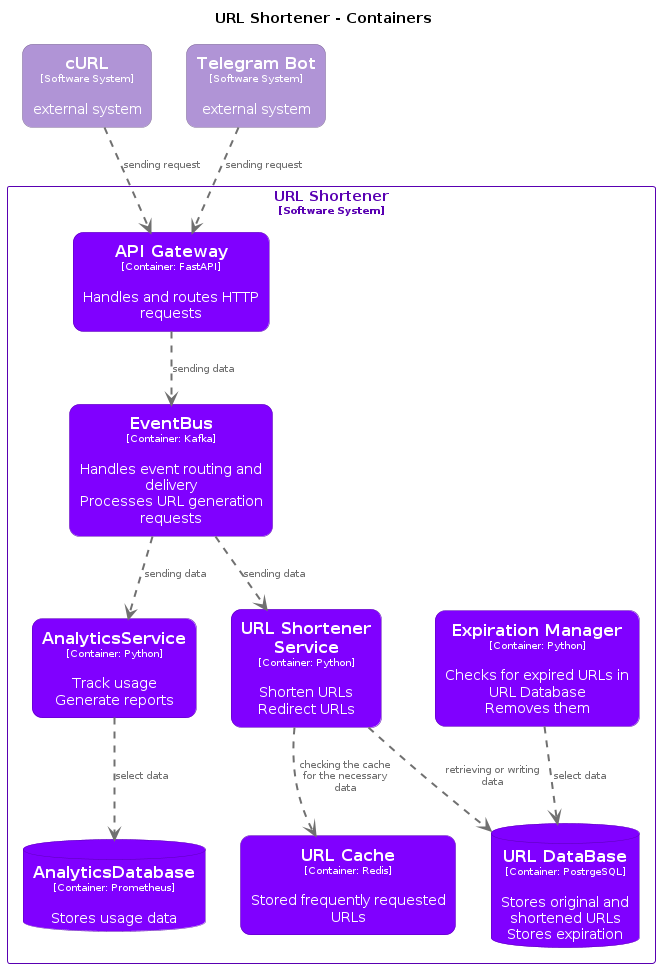
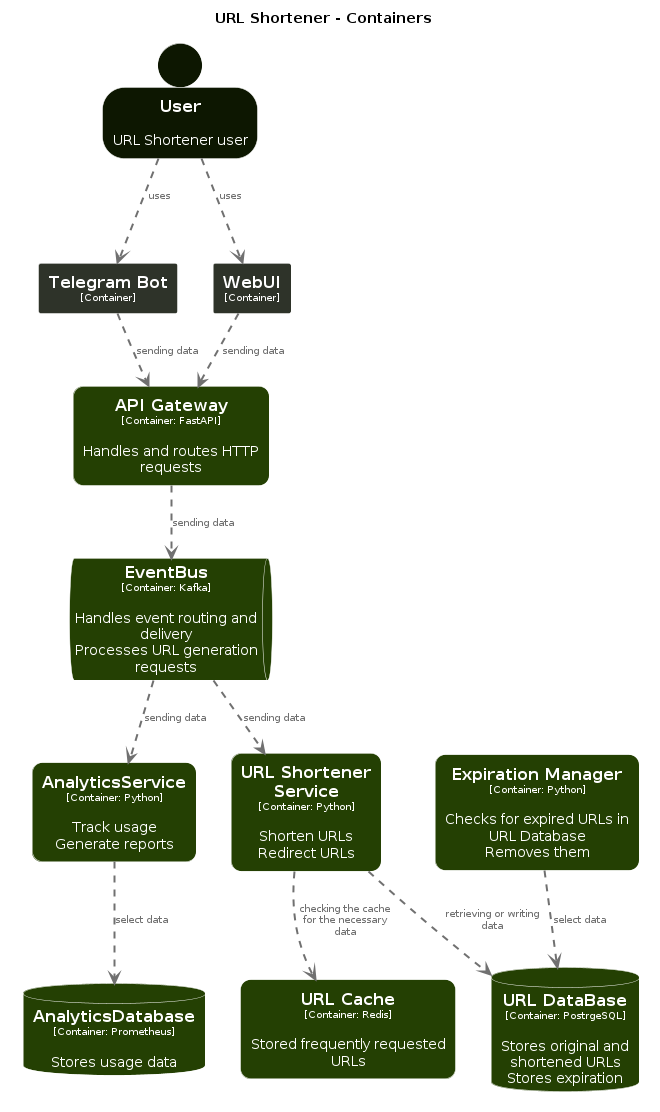
refactor: new style in diagram (#8)

diff --git a/README.md b/README.md
@@ -15,9 +15,9 @@
 * При использовании короткой ссылки будет перенаправлен по оригинальной
 * Если время ссылки истекло, пользователь получит в ответ статическую страницу с информацией о том что ссылка не существовала либо уже не валидна
 
-### cURL
+### WebUI
 
-Все то же что описано в General, с помощью утилиты cURL
+Все то же что описано в General, с помощью SPA (Single Page Application) WebUI
 
 ### Telegram
 
@@ -27,7 +27,7 @@
 
 ### System 
 
-![System](architecture/diagrams/structurizr-Dynamic-001.png)
+![System](architecture/diagrams/structurizr-SystemContext-001.png)
 
 ### Container
 
